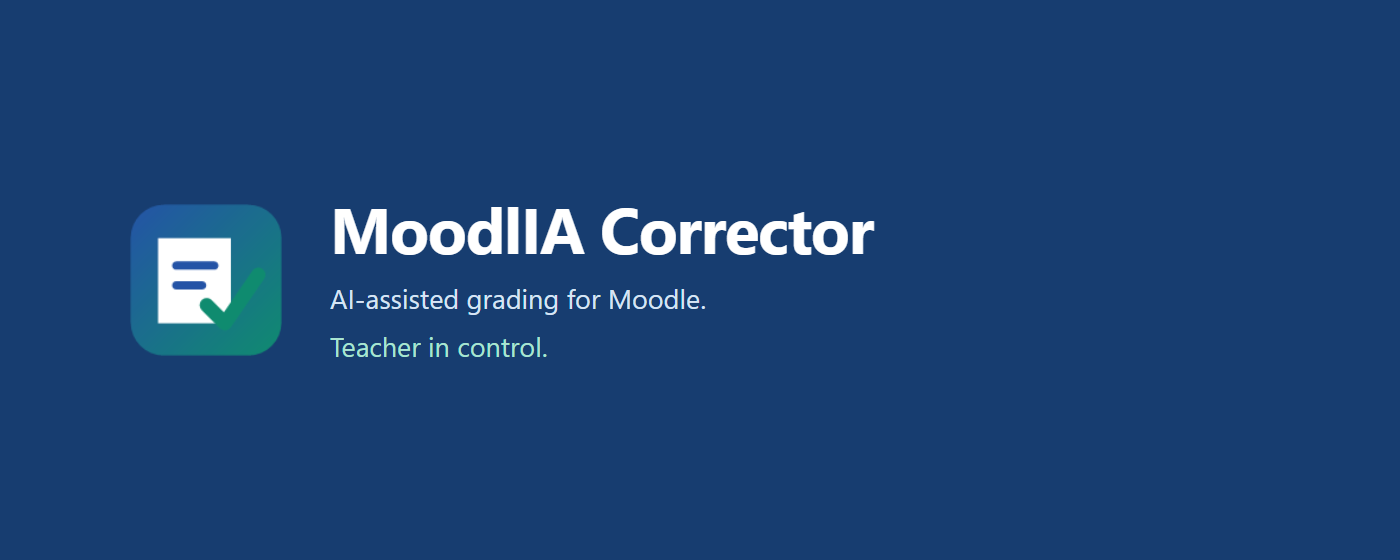
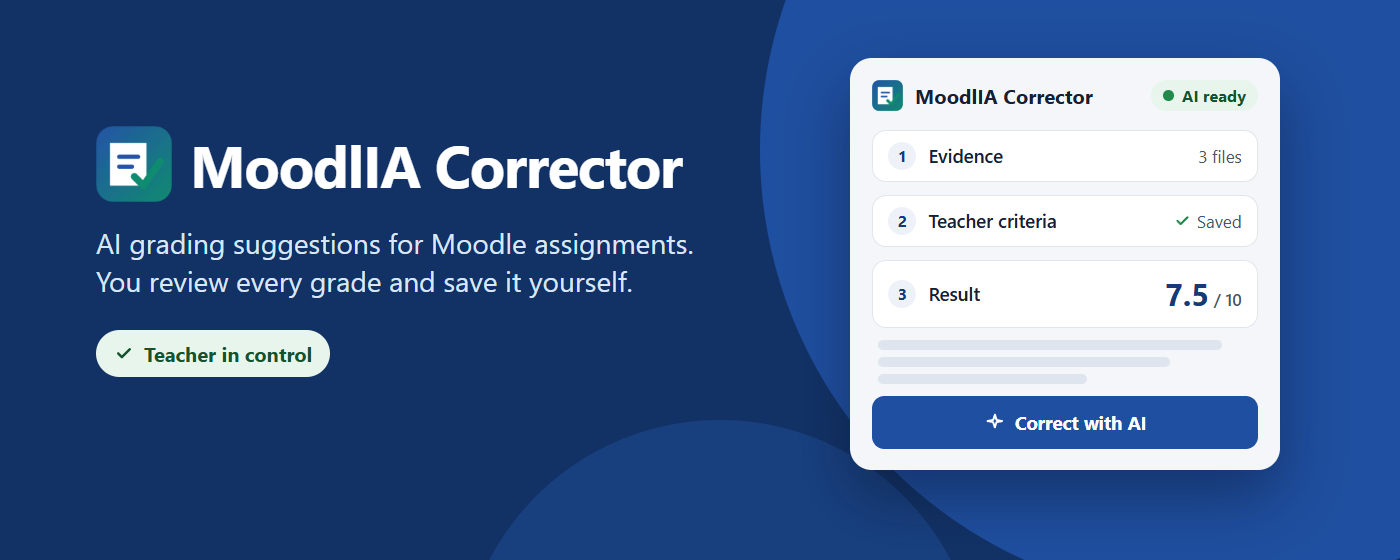
Redesign the store promotional tiles around the compact panel
The tiles show the product name and one short promise beside a drawing
of the grading panel's three steps and a proposed grade. They keep little
text and no format or provider lists, which the store rejected before.

diff --git a/CHANGELOG.md b/CHANGELOG.md
@@ -5,6 +5,7 @@
 - **Correct when moving to the next student** did not start on Moodle's grader: the grader loads the next student in steps (the user, then the submission and files), each step reset the panel, and only the first reset saw a new student, so the later resets dropped the pending correction. The pending start now survives resets for the same student.
 - **Correct when moving to the next student** no longer starts for a student who already has a grade in Moodle's form (a direct grade, a scale value, a selected rubric level or a marking guide score); the status line says so. Students corrected earlier on the page are still not corrected again.
 - 1 new interface string in all eight languages.
+- Store promotional tiles redesigned: the product name and one short promise beside a drawing of the compact grading panel, with little text and no format or provider lists.
 
 ## 0.2.5 - 2026-11-09
 
